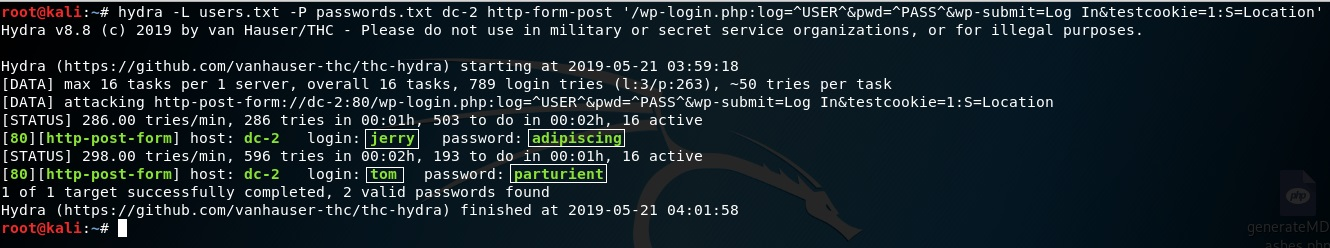
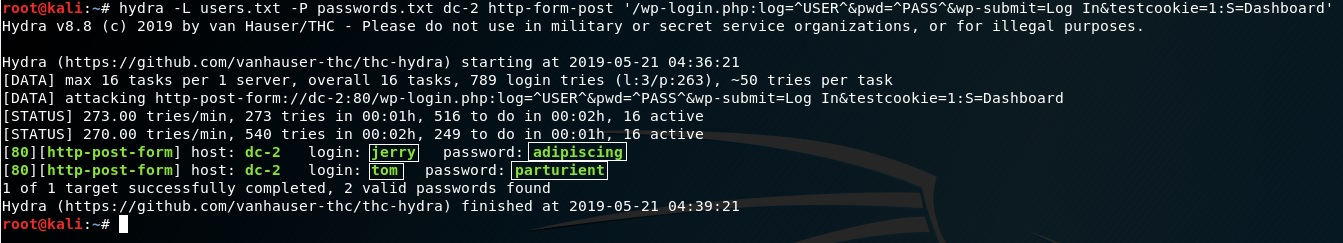
Completed dc-2

Changed region(s): [[0.0, 0.2305, 0.8015, 1.0], [0.0, 0.0, 1.0, 0.144], [0.9248, 0.749, 1.0, 1.0]]

diff --git a/dc-2.md b/dc-2.md
@@ -40,7 +40,7 @@ By DCAU
 * It turns out that there are a total of 3 accounts: `admin`, `jerry` and `tom`, where we were not aware of the latter 2.
 * Next, I ran `hydra -L users.txt -P passwords.txt dc-2 http-form-post '/wp-login.php:log=^USER^&pwd=^PASS^&wp-submit=Log In&testcookie=1:S=Location'` to brute-force the respective passwords for the 3 users.
 ![](/screenshots/dc-2/hydraCrackPasswords.jpg)
-* It seems that we were not able to find the password for user `admin`, but the password for user `jerry` is `adipiscing`, and the password for user `tom` is `adipiscing`.
+* It seems that we were not able to find the password for user `admin`, but the password for user `jerry` is `adipiscing`, and the password for user `tom` is `parturient`.
 * Note: We can also use `wpscan` to brute-force the respective passwords, though the trade-off is that the latter is only able to brute-force one user's password at a time, as compared to `hydra` which can brute-force multiple users' passwords using the same wordlist.
 * I was curious where jerry and tom's password was located on the WordPress site, and found the former immediately on the `Welcome` page - turns out that it was on the very first line of what greeted us. tom's password is found on the `Our Products` page, in paragraph 4.
 ![](/screenshots/dc-2/wordPressUserjerryPasswordLocation.jpg)
@@ -52,3 +52,34 @@ By DCAU
 ![](/screenshots/dc-2/flag2.jpg)
 * From the details of the post, the Page was published, but it probably did not appear on the site (where `Flag 1` did) because it was not inserted on the front page. The URL of the published Page is: `http://dc-2/index.php/flag-2/`.
 * Turns out that we could have just obtained `Flag 2` by modifying the url of `Flag 1`. I immediately tried `/flag-3/`, `/flag-4/`, `/flag-5/` and `/flag-final/` but they were all not found (or at least not viewable as the user `jerry` or `tom`).
+
+* We will now explore the other service, i.e. SSH that is also running on the vulnerable VM. Since we have the WordPress login credentials to `jerry` and `tom`, we will likewise attempt a SSH login using those same credentials: `ssh [username]@dc-2 -p 7744`.
+* We are able to successfully log in with `tom:parturient`:
+![](/screenshots/dc-2/sshtomLogin.jpg)
+* However, we can also see that we are stuck with a `rbash`, i.e. a restricted shell that restricts some features of bash shell.
+* We are still able to run commands such as `ls`, which shows us that `Flag 3` is in the current working directory:
+![](/screenshots/dc-2/flag3Location.jpg)
+* However, we are not able to view the flag via commands such as `cat` and `more`.
+* Fortunately, the `vi` text editor is available to us, and opening up `flag3.txt` gives us the following:
+![](/screenshots/dc-2/flag3.jpg)
+* Note: I tried other text editors such as `vim` and `nano` but they were not available.
+* To get out of `rbash`, I executed `:set shell=/bin/sh` and `:shell` within `vi`, as learnt earlier from an OverTheWire Bandit [exercise](https://github.com/leegengyu/OverTheWire-Bandit) at level 25.
+* Note: Setting the shell to `/bin/bash` does not work. Also, `!sh` for the latter command does not work.
+* After getting out of our `rbash`, we find that some commands still do not work, because they are "not found":
+![](/screenshots/dc-2/binshCommandNotFound.jpg)
+* To resolve this issue, we have to execute `export PATH=/usr/sbin:/usr/bin:/sbin:/bin`, which restores the $PATH variable.
+* Going back to interpreting `Flag 3`, we find that the hint given is to run `su jerry`, since we are currently `tom`.
+* After running the command, we enter jerry's password `adipiscing`, and find that we have successfully logged in as `jerry`:
+![](/screenshots/dc-2/sshjerryLogin.jpg)
+* After logging in, we head to tom's home directory and find `Flag 4`:
+![](/screenshots/dc-2/flag4Location.jpg)
+* Opening up `flag4.txt`, we find that the hint given is on the very last line - that we have to use `git`.
+* Running `sudo -l`, we try to get a list of commands that we are able to execute (and forbidden from executing) as `root`:
+![](/screenshots/dc-2/gitCommand.jpg)
+* Run `sudo git help add` to enter the `Git Manual` page of the `git-add` command, and then enter `!/bin/sh`:
+![](/screenshots/dc-2/binshCommandGit.jpg)
+* Note: Instead of the parameter `add`, you can also use any of the `git-` commands, so long as we manage to enter a git manual page.
+* Note: Instead of running `/bin/sh`, you can also run `/bin/bash`.
+* Hurray, we have now gotten `root` access!
+* We head to the `root` directory, and find `final-flag.txt`:
+![](/screenshots/dc-2/flagLast.jpg)

diff --git a/mr-robot-1.md b/mr-robot-1.md
@@ -55,7 +55,7 @@ Explanation of how the `hydra` command works:
 * Note: The username is **case-insensitive** in our case, i.e. you can login as user `elliot` as well, which is considered the same as `Elliot`.
 
 # Unsuccessful attempt to get elliot's password using hydra #
-* We will similarly use `hydra` to brute-force the password for user Elliot: run `hydra -V 10.0.2.5 http-form-post "/wp-login.php:log=elliot&pwd=^PASS^:ERROR" -l elliot -P fsocity.dic`.
+* We will similarly use `hydra` to brute-force the password for user Elliot: run `hydra -V -l elliot -P fsocity.dic 10.0.2.5 http-form-post "/wp-login.php:log=elliot&pwd=^PASS^:ERROR"`.
 * There are 858,160 lines in the dictionary wordlist (run `cat fsocity.dic | wc -l` to find out), which means that hydra will try a total of 858,160 passwords.
 * During the first 1 minute, hydra made around 1,100 attempts on my Kali VM (with these added parameters`-t 40 -w 1`: 40 connects in parallel and maximum 1 second wait for responses). The worst-case scenario of trying every single line as a password is that it would take around 12 hours to crack the password, which is way too long.
 * Let us open the dictionary wordlist again to see if we are able to reduce the number of attempts that we have to make in the worst-case scenario.
